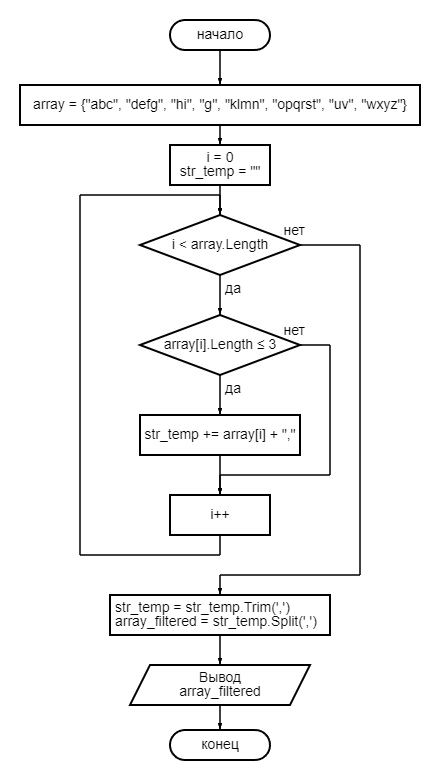
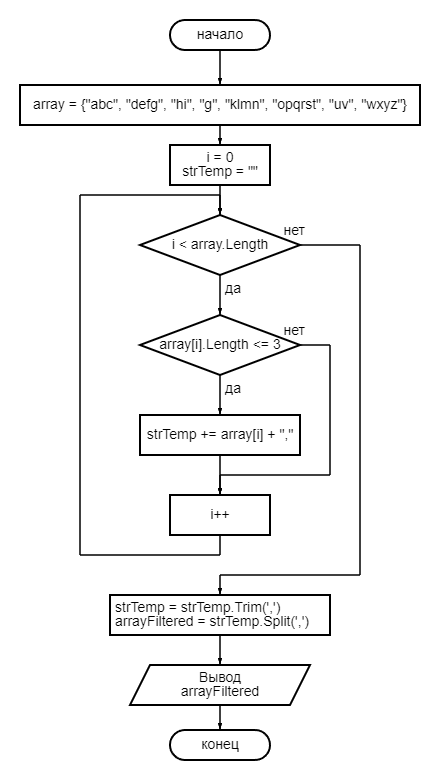
Correcting names

diff --git a/Readme.md b/Readme.md
@@ -30,34 +30,34 @@ string[] ArrayFilter(string[] array)
 Поскольку нам заранее не известен размер итогового массива, мы будем найденные значения записывать в строку, используя в качестве разделителя запятую. Эту строку мы впоследствии преобразуем в массив. Для этого в теле метода объявляем строковую переменную и присваиваем ей пустое значение:
 
 ```C#
-string str_temp = "";
+string strTemp = "";
 ```
 
 > Следует заметить, что в данном случае мы не должны при вводе элементов исходного массива использовать запятую
 
-Затем циклом проходим по каждому элементу исходного массива. Если длина элемента меньше, либо равна 3, то к переменной `str_temp` мы прибавляем значение этого элемента плюс запятая:
+Затем циклом проходим по каждому элементу исходного массива. Если длина элемента меньше, либо равна 3, то к переменной `strTemp` мы прибавляем значение этого элемента плюс запятая:
 
 ```C#
 for (int i = 0; i < array.Length; i++)
-        if (array[i].Length <= 3) str_temp += array[i] + ",";
+        if (array[i].Length <= 3) strTemp += array[i] + ",";
 ```
 
-Полученную строку нам нужно преобразовать в массив с помощью метода `Split()`. Но, поскольку в результате выполнения операций в цикле наша строка теперь заканчивается запятой, Метод `Split()` будет писать в массив один лишний элемент. равный пустому значению. Чтобы этого избежать, просто "отрежем" последнюю запятую:
+Полученную строку нам нужно преобразовать в массив с помощью метода `Split()`. Но, поскольку в результате выполнения операций в цикле наша строка теперь заканчивается запятой, метод `Split()` будет писать в массив один лишний элемент. равный пустому значению. Чтобы этого избежать, просто "отрежем" последнюю запятую:
 
 ```C#
-str_temp = str_temp.Trim(',');
+strTemp = strTemp.Trim(',');
 ```
 
-Объявим новый массив `array_filtered` и сразу же запишем в него элементы из строки `str_temp`:
+Объявим новый массив `arrayFiltered` и сразу же запишем в него элементы из строки `strTemp`:
 
 ```C#
-string[] array_filtered = str_temp.Split(',');
+string[] arrayFiltered = strTemp.Split(',');
 ```
 
 Возвращаем новый массив:
 
 ```C#
-return array_filtered;
+return arrayFiltered;
 ```
 
 И выводим его в консоль:
